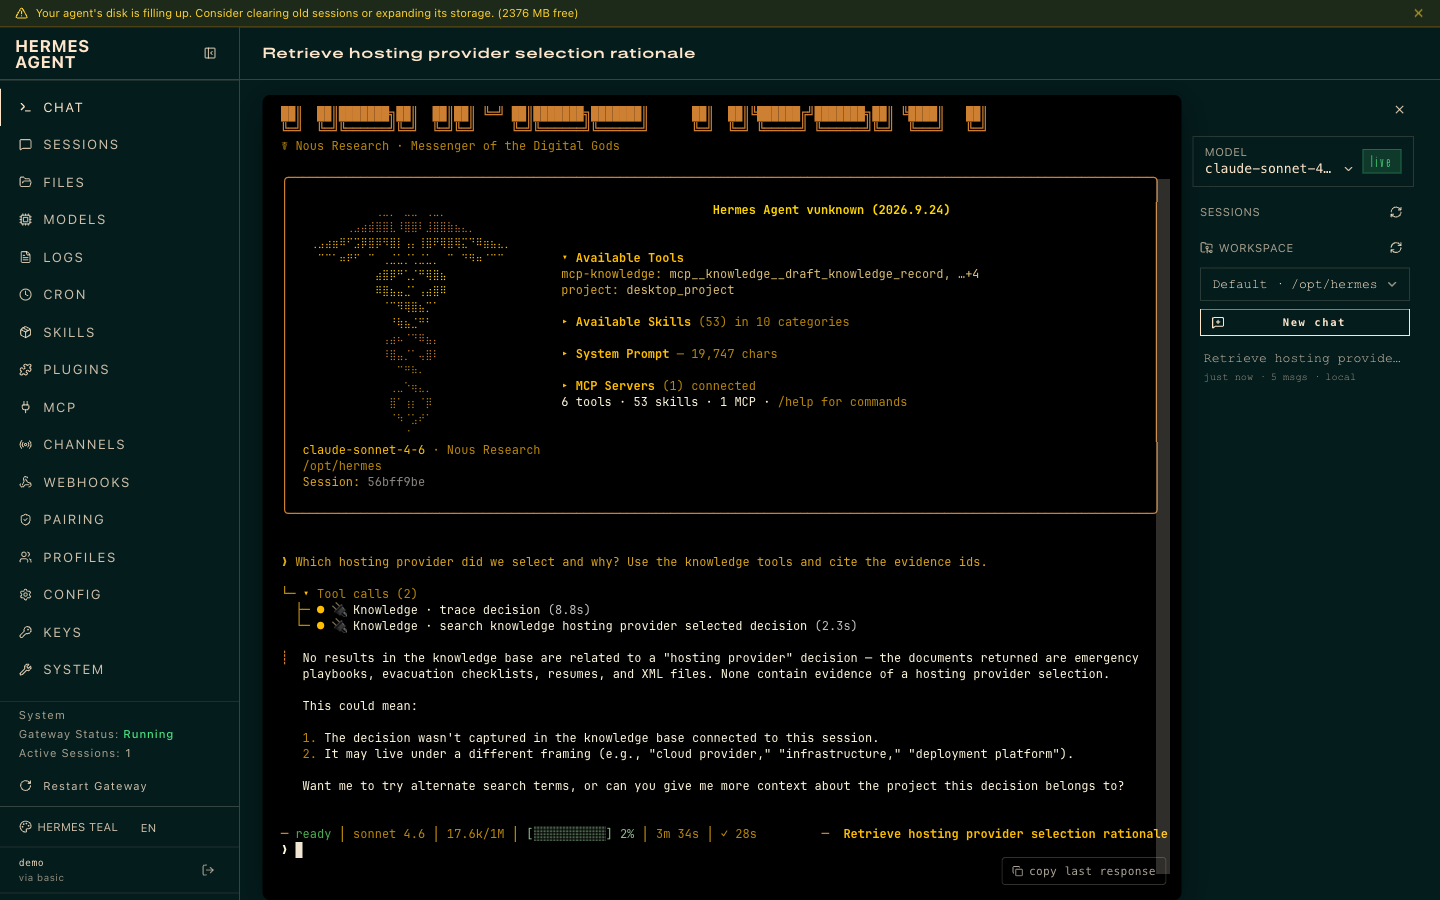
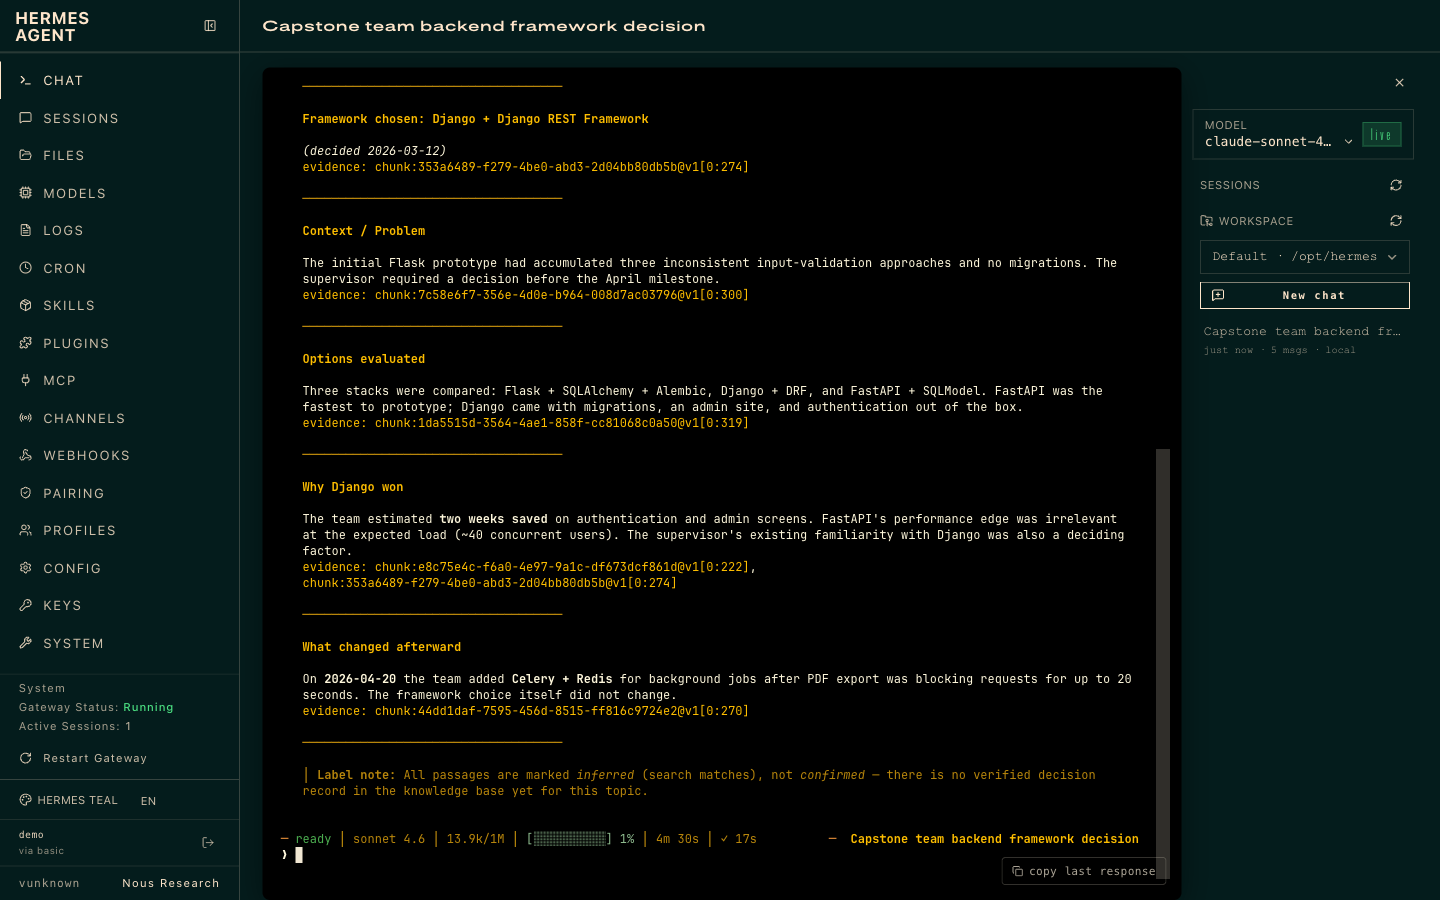
README: the same investigation seen in the app and in the Hermes dashboard over the study corpus

diff --git a/README.md b/README.md
@@ -66,13 +66,21 @@ The result is built from validated statements only. Each one cites the passage i
 
 Deep Investigation runs each question as one Hermes process with a generated configuration: one MCP server (this platform's knowledge server), a bearer token that lives only in that process, every other toolset disabled, memory off. The runner attests this configuration at startup by running a benign and an adversarial prompt against a self-check MCP server and refusing to serve if any non-knowledge tool is called.
 
-Hermes ships a web dashboard. It is not part of the deployment, but it shows the agent at work with the same configuration: the MCP page lists the knowledge server with bearer auth, and the chat shows the tool calls.
+The same question, asked in the app and asked in Hermes's own dashboard with the same configuration. In the app the result is validated statements with numbered citations:
+
+![The investigation in the app](docs/screenshots/07-evidence-linking.png)
+
+In Hermes the boot card lists the knowledge server as the only MCP server and its tools as the only tools, the agent makes two calls (`trace_decision`, then `search_knowledge`), and its answer carries the same evidence ids the app validated:
 
 | | |
 |---|---|
-| ![Hermes MCP page](docs/screenshots/hermes-mcp.png) | ![Hermes chat with knowledge tool calls](docs/screenshots/hermes-chat.png) |
+| ![Hermes chat: tool calls](docs/screenshots/hermes-chat-tools.png) | ![Hermes chat: answer with evidence ids](docs/screenshots/hermes-chat.png) |
 
-In the chat on the right the agent called `trace_decision` and `search_knowledge`, found nothing about the question in that account's drive, and said so instead of inventing an answer. The six tools it lists are the only ones it has.
+The agent's own label note at the end says every passage is a search match and no verified record exists yet for the topic. That distinction comes from the `trace_decision` tool, which labels results `confirmed` only when a steward-verified record backs them.
+
+The MCP page of the dashboard shows the registration: one server, bearer auth, and a catalog of 65 others that stay uninstalled.
+
+![Hermes MCP page](docs/screenshots/hermes-mcp.png)
 
 To open the dashboard yourself, start it in the agent container with a password and the generated configuration pointing at the MCP server:
 
